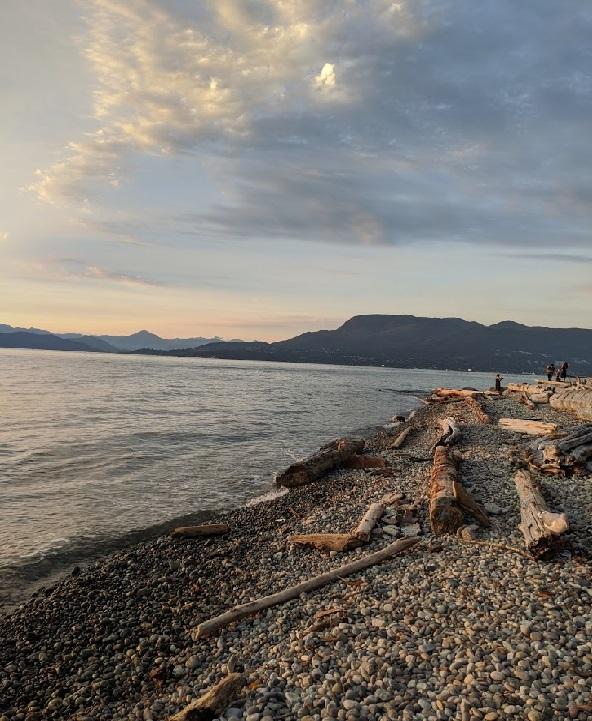
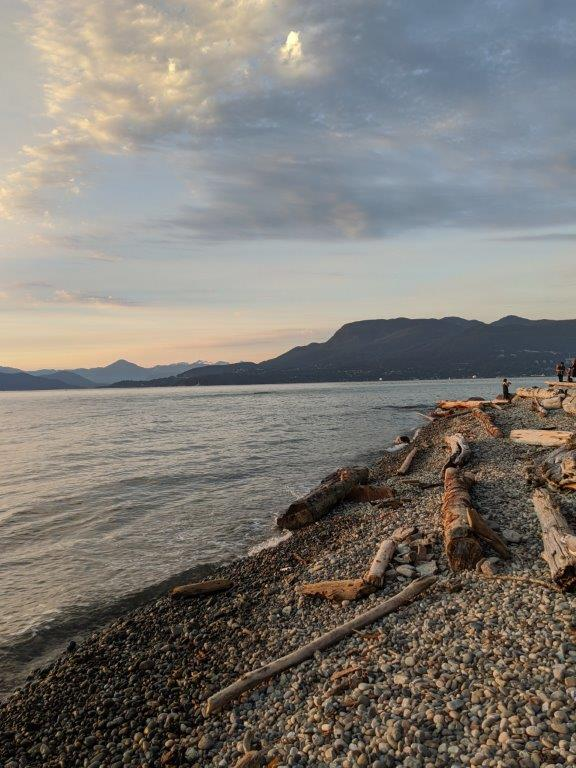
2020-12-06-2

diff --git a/post/dec3_2020/index.html b/post/dec3_2020/index.html
@@ -829,7 +829,7 @@
 </div>
 
 
-<div class="article-header article-container featured-image-wrapper mt-4 mb-4" style="max-width: 592px; max-height: 721px;">
+<div class="article-header article-container featured-image-wrapper mt-4 mb-4" style="max-width: 576px; max-height: 768px;">
   <div style="position: relative">
     <img src="/post/dec3_2020/featured.jpg" alt="" class="featured-image">
     <span class="article-header-caption">Photo by Amanda Ramharakh</span>

diff --git a/index.html b/index.html
@@ -1349,7 +1349,7 @@
     
     
     <a href="/post/dec3_2020/" >
-      <img src="/post/dec3_2020/featured_hu8802875945030a9a286125b378754a14_181004_150x0_resize_q90_lanczos.jpg" alt="New, New, New">
+      <img src="/post/dec3_2020/featured_hubf196b316ab61c808d39f623f2a4f122_87480_150x0_resize_q90_lanczos.jpg" alt="New, New, New">
     </a>
     
   </div>

diff --git a/post/index.html b/post/index.html
@@ -913,7 +913,7 @@
     
     
     <a href="/post/dec3_2020/" >
-      <img src="/post/dec3_2020/featured_hu8802875945030a9a286125b378754a14_181004_150x0_resize_q90_lanczos.jpg" alt="New, New, New">
+      <img src="/post/dec3_2020/featured_hubf196b316ab61c808d39f623f2a4f122_87480_150x0_resize_q90_lanczos.jpg" alt="New, New, New">
     </a>
     
   </div>
